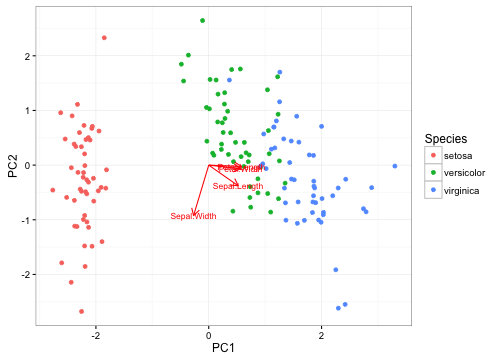
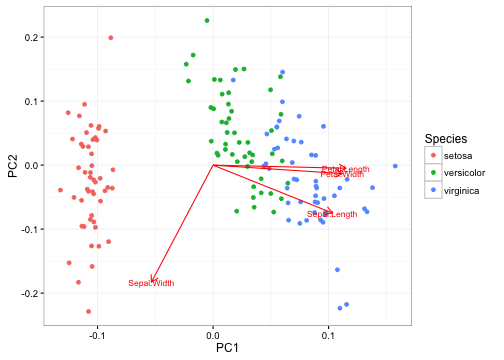
implement edits

diff --git a/_posts/2016-01-03-Principal-Components-Analysis.md b/_posts/2016-01-03-Principal-Components-Analysis.md
@@ -113,28 +113,14 @@ A plot of the first two principal components against each other with the loading
 
 {% highlight r %}
 library(ggfortify)
-{% endhighlight %}
 
-
-
-{% highlight text %}
-## Error in library(ggfortify): there is no package called 'ggfortify'
-{% endhighlight %}
-
-
-
-{% highlight r %}
 # plot the biplot
 autoplot(prcomp(dat, center = TRUE, scale. = TRUE), data = iris, colour = "Species", 
          loadings = TRUE, loadings.label = TRUE,
          loadings.label.size = 3)
 {% endhighlight %}
 
-
-
-{% highlight text %}
-## Error: Objects of type prcomp not supported by autoplot.
-{% endhighlight %}
+<img src="/nhuyhoa/figure/source/2016-01-03-Principal-Components-Analysis/unnamed-chunk-7-1.png" title="plot of chunk unnamed-chunk-7" alt="plot of chunk unnamed-chunk-7" style="display: block; margin: auto;" />
 
 From this plot, the first principal components has large loadings for $$Petal.Length$$ and $$Petal.Width$$. This indicates that $$Petal$$ attributes vary together (are correlated) and make up a large part of the first principal component. The second principal component has large loadings for $$Sepal.Length$$ and $$Sepal.Width$$. The $$Sepal$$ attributes are correlated and make up a large part of the second principal component. 
 
@@ -189,11 +175,11 @@ summary(pcr.fit)
 ## VALIDATION: RMSEP
 ## Cross-validated using 10 random segments.
 ##        (Intercept)  1 comps  2 comps  3 comps  4 comps  5 comps
-## CV           6.123    2.692    2.720    2.519    2.570    2.621
-## adjCV        6.123    2.679    2.707    2.506    2.555    2.605
+## CV           6.123    2.712    2.756    2.621    2.689    2.690
+## adjCV        6.123    2.699    2.742    2.601    2.666    2.667
 ##        6 comps  7 comps  8 comps  9 comps  10 comps
-## CV       2.735    2.842    2.947    3.488     3.745
-## adjCV    2.710    2.813    2.908    3.412     3.647
+## CV       2.861    2.979    3.556    3.848     4.103
+## adjCV    2.828    2.940    3.484    3.761     3.994
 ## 
 ## TRAINING: % variance explained
 ##      1 comps  2 comps  3 comps  4 comps  5 comps  6 comps  7 comps

diff --git a/_posts/2015-11-26-GLM-Logistic-Regression.md b/_posts/2015-11-26-GLM-Logistic-Regression.md
@@ -174,10 +174,10 @@ To determine the standard error of this estimate, use the [delta method][func_RV
 In R, this can be done with `MASS::dose.p()`.
 
 # Overdispersion
-Overdispersion occurs in logistic regression when $$Var(Y_i)$$ is greater than the assumed $$Var(Y_i) = \mu_i (1 - \mu_i) / n_i$$. Usually this occurs when the $$n_i$$ Bernuolli trials are not identically distributed or not independent. (Note that if $$n_i = 1$$, overdispersion is not possible - data is Bernuolli). 
+Overdispersion occurs in logistic regression when $$Var(Y_i)$$ is greater than the assumed $$Var(Y_i) = \mu_i (n_i - \mu_i) / n_i$$. Usually this occurs when the $$n_i$$ Bernuolli trials are not identically distributed or not independent. (Note that if $$n_i = 1$$, overdispersion is not possible - data is Bernuolli). 
 
 The method to adjust for overdispersion involves multiplying the variance by a factor $$\sigma^2$$ to obtain 
-$$Var(Y_i)^* = \sigma^2 \mu_i (1 - \mu_i) / n_i$$
+$$Var(Y_i)^* = \sigma^2 \mu_i (n_i - \mu_i) / n_i$$
 
 The steps for assessing overdispersion are listed in the [GLM Testing and Diagnostics: Overdispersion][glm_diagnostics_post]{:target = "blank"}.
 
